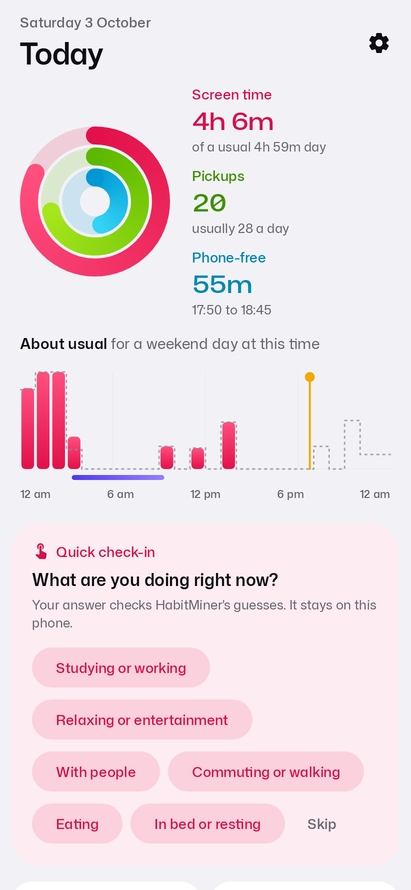
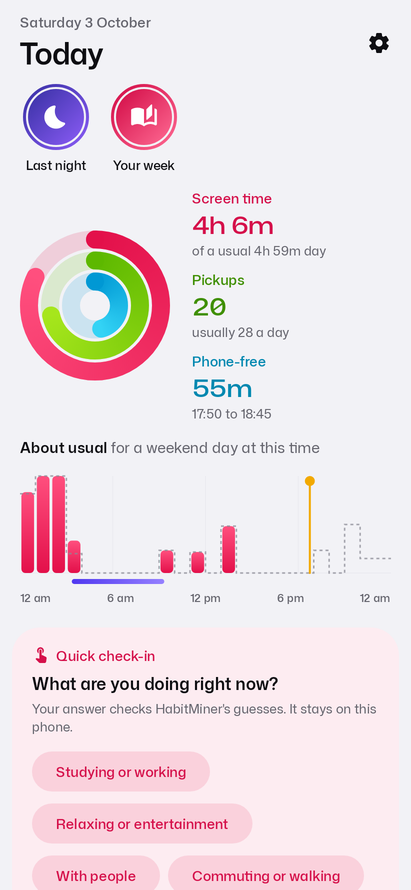
docs: README for 2.6 (stories, plain words, notification noise), screenshots from generic sample apps
Claude-Session: https://claude.ai/code/session_01Bwye9uu27nUsAm68HhJaTK

Changed region(s): [[0.0292, 0.091, 0.9343, 1.0], [0.8759, 0.5461, 0.9343, 0.5764], [0.8175, 0.6067, 0.8467, 0.6371]]

diff --git a/README.md b/README.md
@@ -5,7 +5,7 @@
 [![License](https://img.shields.io/badge/License-MIT-blue.svg)](LICENSE)
 [![Kotlin](https://img.shields.io/badge/Kotlin-2.3-purple.svg)](https://kotlinlang.org/)
 [![Android](https://img.shields.io/badge/Android-8.0%2B-green.svg)](https://developer.android.com/)
-[![Version](https://img.shields.io/badge/Version-2.2-blue.svg)](#-whats-new-in-extended)
+[![Version](https://img.shields.io/badge/Version-2.6-blue.svg)](#-whats-new-in-extended)
 
 HabitMiner Extended is the next version of [HabitMiner](README_OLD.md). It installs as its own app (**HM Extended**, `com.habitminer.extended`) next to the original, can bring the original's history across, and adds a redesigned interface, better sleep and nap tracking, goals, a long list of accuracy fixes found by using it every day, shorter daily loops (2.1), and (in 2.2) **patterns**: what pulls you into your phone, what it costs you, and whether your changes are working.
 
@@ -18,6 +18,35 @@ Everything stays on the phone. There is no account and no server; data leaves th
 <p align="center">
   <img src="docs/screenshots/extended/overview.png" alt="HabitMiner Extended: Today, Sleep, Trends, Goals and Status" width="100%">
 </p>
+
+### New in 2.6: stories, in plain words
+
+Today opens with stories, like Instagram's: **Today** (one or two insights), **Last night** and **Your week**. Each slide says what's going on in one sentence, what it means (how habits like this usually work), and one thing to try, with a button where it helps. The numbers are one tap away, not in your face. A bubble stays coloured until you've watched it.
+
+<table>
+  <tr>
+    <td align="center" valign="top" width="25%">
+      <img src="docs/screenshots/extended/today.png" alt="Today with stories" width="200"><br>
+      <b>Today</b><br>
+      <sub>Stories at the top, and today's insight as a card that dims once read.</sub>
+    </td>
+    <td align="center" valign="top" width="25%">
+      <img src="docs/screenshots/extended/story_long_sessions.png" alt="Where your time goes" width="200"><br>
+      <b>Where your time goes</b><br>
+      <sub>Not "63% of its time": what it means, and what to try.</sub>
+    </td>
+    <td align="center" valign="top" width="25%">
+      <img src="docs/screenshots/extended/story_last_night.png" alt="Last night" width="200"><br>
+      <b>Last night</b><br>
+      <sub>Why the night was short, and a pause for the apps behind it.</sub>
+    </td>
+    <td align="center" valign="top" width="25%">
+      <img src="docs/screenshots/extended/story_noise.png" alt="Notification noise" width="200"><br>
+      <b>Notification noise</b><br>
+      <sub>Apps whose alerts you clear hundreds of times and never open.</sub>
+    </td>
+  </tr>
+</table>
 
 ### New in 2.2: your patterns
 
@@ -210,6 +239,16 @@ Everything stays on the phone. There is no account and no server; data leaves th
 ---
 
 ## 🆕 What's new in Extended
+
+### 2.3 to 2.6: written for people, not analysts
+- **Stories on Today** (2.5–2.6): Today, Last night and Your week as tap-through slides in plain words, with the numbers behind "See the numbers". Today's insight is also a card that dims once read. Steps, "Notified" and "Likely next" moved to Trends.
+- **The same voice everywhere** (2.6): pattern cards on Trends, the unusual-day insight and the Weekly Story lead with what it means and what to try.
+- **Actions where the insight is**: pause the apps behind late nights after 23:00 (weeknights only by default), a pause for the last app before sleep, notification settings for apps that pull you in or that you never open, and "Try this week" in the Weekly Story.
+- **Notification noise** (2.6): apps whose notifications you clear (or "clear all") and almost never open. Notifications an app withdrew by itself, system notices and the alarm clock are left out.
+- **Honest goals** (2.3–2.4): "Is it working?" checks whether saved time just moved to other leisure apps, suggests something else when you tap through most pauses, and shows why each pause was set up, on the pause screen too.
+- **Your call on mixed apps** (2.4): mark an app as leisure or work/study, so lecture videos aren't flagged as late-night scrolling.
+- **Patterns you can put away** (2.3): "That's intentional" or "Hide", undone in Settings.
+- **Fixes**: Google search-bar launches aren't counted as a habit; uninstalled apps drop out of guesses and patterns; the alarm clock never counts as the last or first app around sleep; pausing several apps opens Android's settings once; on Android 13+ HabitMiner explains restricted settings before sending you to a greyed-out switch.
 
 ### 2.2: from reporting to findings
 Screen time, pickups and per-app time are what Android's Digital Wellbeing already shows. 2.2 adds what it can't: patterns that connect time of day, app order, notifications and sleep, found in your own data.

diff --git a/docs/FINDINGS.md b/docs/FINDINGS.md
@@ -19,6 +19,11 @@ HabitMiner Extended 2.2 adds **Your patterns**: things that are true about how o
 - **What to do about checking all day.** For the top three quick-check apps, the share of checks that came within a minute of the app's own notification: for one user, about 40% for the main messenger but 0–2% for the other two; for the other user, 43% for the messenger and 14–20% for the rest. So quieter notifications help only some apps. The card offers notification settings only for an app where at least 30% of checks follow its notifications, and says which apps you open by yourself. It never offers a pause for chat apps you check dozens of times a day.
 - **Weeknights only.** Long sessions after 23:00 were spread evenly over the week for both users (69–70% on Sunday to Thursday nights, against 71% if evenly spread), but they cost sleep only before weekdays. So the night pause offered from the sleep pattern applies Sunday to Thursday nights by default, with "every night" as the other choice; the long-sessions pattern pauses every night.
 
+## Checked for 2.6
+
+- **Notification noise.** One user's export logged about 18,000 notifications leaving the shade: about 4% opened, about 29% cleared by the user (one by one or with "clear all"), and over half withdrawn by the app itself. Several apps (payments, shopping, news) had hundreds cleared and none or almost none opened. The pattern counts only the user's own clearing, needs 15 or more in four weeks with at most 1 in 10 opened, and leaves out system notices, the alarm clock and HabitMiner itself.
+- **Around sleep.** The first and last app around a night now skip the alarm clock and system screens: setting an alarm last thing at night was hiding the app actually used before sleep.
+
 ## Kept behind a strict threshold
 
 - **Busiest hours** (a "danger zone"): shown only when two hours hold 25%+ of screen time (an even spread is about 12%). Neither user ever reached it in any week (highest 22%), but it is kept for people whose use is concentrated.
